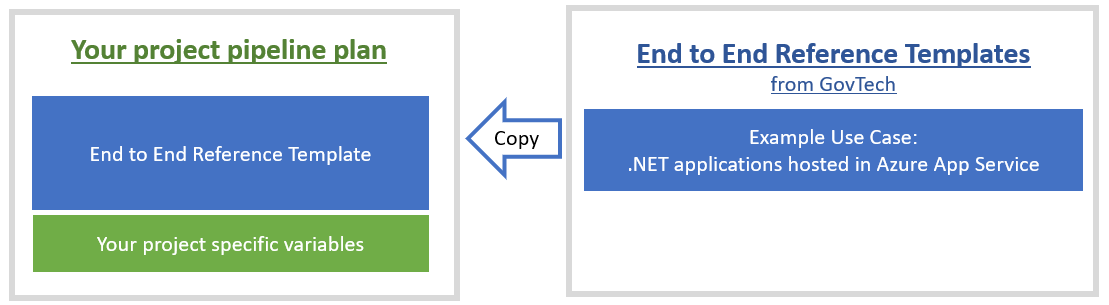
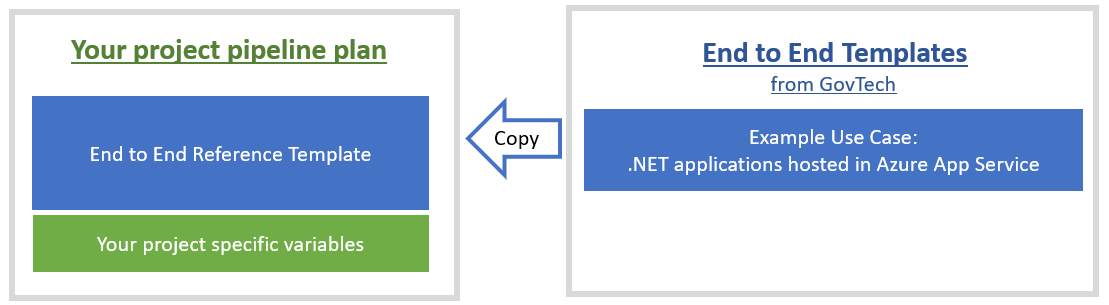
Sowmya's suggestion

Changed region(s): [[0.5518, 0.118, 0.9504, 0.2361]]

diff --git a/migration/index.html b/migration/index.html
@@ -7,7 +7,7 @@
   <meta name="description" content="Description">
   <meta name="viewport" content="width=device-width, initial-scale=1.0, minimum-scale=1.0">
   <!--<link rel="stylesheet" href="//cdn.jsdelivr.net/npm/docsify@4/lib/themes/vue.css">-->
-  <link rel="stylesheet" href="https://docs.developer.tech.gov.sg/static/dist/doc.c1b595f5.css">
+  <link rel="stylesheet" href="https://docs.developer.tech.gov.sg/static/dist/doc.0e37dec7.css">
   <link rel="stylesheet" href="https://fonts.googleapis.com/css2?family=Source+Sans+Pro:wght@100;300;400;700;900&display=swap">
   <link rel="stylesheet" href="https://cdnjs.cloudflare.com/ajax/libs/font-awesome/5.13.0/css/fontawesome.min.css">
   <link rel="stylesheet" href="https://cdnjs.cloudflare.com/ajax/libs/font-awesome/5.13.0/css/solid.min.css">

diff --git a/migration/pipeline-templates.md b/migration/pipeline-templates.md
@@ -17,9 +17,11 @@ SHIP-HATS Templates aims to help you construct their CI/CD pipelines efficiently
 
 Following types of templates will be provided:
 
-- **End-to-End Reference templates:** An end-to-end CI/CD workflow for a specific use case such as .Net application hosted in Azure App Service, Java application hosted in AWS EC2, etc.  
+- **End-to-End templates:** An end-to-end CI/CD workflow for a specific use case such as .Net application hosted in Azure App Service, Java application hosted in AWS EC2, etc.  
+
     ![End-to-End Reference template](./images/template-end-to-end.png)
 - **Modular templates:** A stand-alone basic template for invoking build, test, deploy tools, etc.   
+
     ![Modular template](./images/template-modular.png)
 
 ## List of Templates  
@@ -95,8 +97,6 @@ This section provides a high level of overview of templates to expect for migrat
 
 ### Reference pipelines
 
-
-
 You can access following examples of E2E CI pipeline using SHIP-HATS templates [here](https://sgts.gitlab-dedicated.com/wog/gvt/ctmo/reference-pipelines): 
 
 - **javaap:** Example end to end CI pipeline for a sample 3-tier application hosted in AWS EC2
@@ -107,8 +107,6 @@ You can access following examples of E2E CI pipeline using SHIP-HATS templates [
 
 
 ### E2E templates
-
-https://sgts.gitlab-dedicated.com/wog/gvt/ship/e2e-templates
 
 |Template|Description|Template Type|
 |---|---|---|
